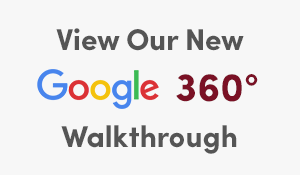
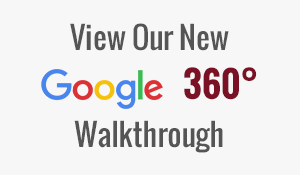
360 additions to other pages

diff --git a/site/wordpress/wp-content/themes/soco-site/page-templates/page-reservations.php b/site/wordpress/wp-content/themes/soco-site/page-templates/page-reservations.php
@@ -128,6 +128,11 @@ get_header();
 						<label>Contact Us with Your Request</label>
 						<p>True southern hospitality is in the details, and we handle them all for you. Our semi-private dining room accommodates up to 30 guests and is the perfect location for your cocktail party or sit-down dinner. Our dedicated team strives to serve up the best in quality and service for you and your guests.</p>
 						<p><a href="<?php bloginfo('template_directory'); ?>/_assets/pdf/group.pdf" class="button solid">Group Dining Package</a></p>
+
+						<h2>Google 360° Walkthrough</h2>
+						<a href="https://www.google.com/maps/place/Soco+Restaurant/@28.542435,-81.3686923,3a,75y,351h,90t/data=!3m8!1e1!3m6!1slYnPcGj2dtEAAAQvvJ_Dkw!2e0!3e2!6s%2F%2Fgeo3.ggpht.com%2Fcbk%3Fpanoid%3DlYnPcGj2dtEAAAQvvJ_Dkw%26output%3Dthumbnail%26cb_client%3Dsearch.TACTILE.gps%26thumb%3D2%26w%3D129%26h%3D106%26yaw%3D351.11292%26pitch%3D0!7i13312!8i6656!4m5!3m4!1s0x0:0x6a3e6d1244b504b4!8m2!3d28.5424964!4d-81.3686595!6m1!1e1" target="_blank">
+							<img style="border: none; text-align: left; float: left; width: 100%;" src="<?php bloginfo('template_directory'); ?>/_assets/img/google360-lg.png" alt="Google 360 Walkthrough">
+						</a>
 					</div>
 					<div class="special-contact">
 						<div class="thankyou-message">
@@ -138,7 +143,7 @@ get_header();
 					</div>
 				</div>
 			</div><!-- #Room.tabDisplay -->
-
+ 
 		</div><!-- .container -->
 	</div><!-- .reservationsPage -->
 

diff --git a/site/wordpress/wp-content/themes/soco-site/page-templates/page-location.php b/site/wordpress/wp-content/themes/soco-site/page-templates/page-location.php
@@ -38,10 +38,9 @@ get_header(); ?>
 							</div>
 
 							<h2>Google 360° Walkthrough</h2>
-							<p>View our new virtual walkthrough on Google maps!</p>
-							<div class="button-wrap">
-								<a href="https://www.google.com/maps/place/Soco+Restaurant/@28.542435,-81.3686923,3a,75y,351h,90t/data=!3m8!1e1!3m6!1slYnPcGj2dtEAAAQvvJ_Dkw!2e0!3e2!6s%2F%2Fgeo3.ggpht.com%2Fcbk%3Fpanoid%3DlYnPcGj2dtEAAAQvvJ_Dkw%26output%3Dthumbnail%26cb_client%3Dsearch.TACTILE.gps%26thumb%3D2%26w%3D129%26h%3D106%26yaw%3D351.11292%26pitch%3D0!7i13312!8i6656!4m5!3m4!1s0x0:0x6a3e6d1244b504b4!8m2!3d28.5424964!4d-81.3686595!6m1!1e1" target="_blank" class="button">View 360°</a>
-							</div>
+							<a href="https://www.google.com/maps/place/Soco+Restaurant/@28.542435,-81.3686923,3a,75y,351h,90t/data=!3m8!1e1!3m6!1slYnPcGj2dtEAAAQvvJ_Dkw!2e0!3e2!6s%2F%2Fgeo3.ggpht.com%2Fcbk%3Fpanoid%3DlYnPcGj2dtEAAAQvvJ_Dkw%26output%3Dthumbnail%26cb_client%3Dsearch.TACTILE.gps%26thumb%3D2%26w%3D129%26h%3D106%26yaw%3D351.11292%26pitch%3D0!7i13312!8i6656!4m5!3m4!1s0x0:0x6a3e6d1244b504b4!8m2!3d28.5424964!4d-81.3686595!6m1!1e1" target="_blank">
+								<img style="border: none; text-align: left; float: left; width: 100%;" src="<?php bloginfo('template_directory'); ?>/_assets/img/google360-lg.png" alt="Google 360 Walkthrough">
+							</a>
 
 							<h2>Parking</h2>
 							<p class="parking"><?php echo do_shortcode(stripslashes(get_option('soco_parking'))); ?></p>

diff --git a/site/wordpress/wp-content/themes/soco-site/footer.php b/site/wordpress/wp-content/themes/soco-site/footer.php
@@ -13,7 +13,7 @@
 	<footer id="colophon" class="site-footer" role="contentinfo">
 	
 	    <div class="notification">
-	    	<a href="/reservations">
+	    	<a href="https://www.google.com/maps/place/Soco+Restaurant/@28.542435,-81.3686923,3a,75y,351h,90t/data=!3m8!1e1!3m6!1slYnPcGj2dtEAAAQvvJ_Dkw!2e0!3e2!6s%2F%2Fgeo3.ggpht.com%2Fcbk%3Fpanoid%3DlYnPcGj2dtEAAAQvvJ_Dkw%26output%3Dthumbnail%26cb_client%3Dsearch.TACTILE.gps%26thumb%3D2%26w%3D129%26h%3D106%26yaw%3D351.11292%26pitch%3D0!7i13312!8i6656!4m5!3m4!1s0x0:0x6a3e6d1244b504b4!8m2!3d28.5424964!4d-81.3686595!6m1!1e1" target="_blank">
         	<img class="notification right" src="<?php bloginfo('template_directory'); ?>/_assets/img/google360.png" alt="Google 360 Walkthrough">
         </a>
         <!-- <h5 class="notification"><strong>View PDF </strong> <span class="icon-arrowRight"></span></h5> -->
